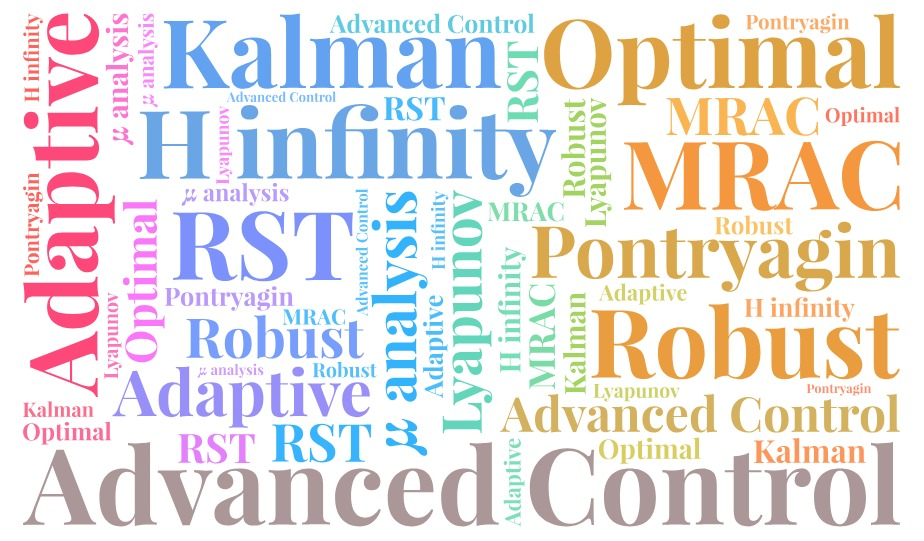
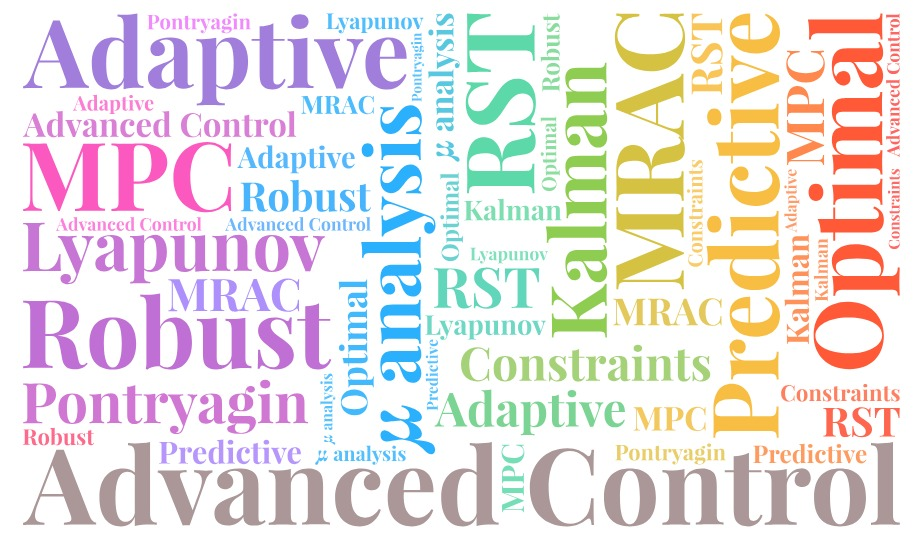
test 8

diff --git a/content/teaching/advanced-control/index.md b/content/teaching/advanced-control/index.md
@@ -18,19 +18,13 @@ On this page, you'll find some examples of the types of technical content that c
 
 ## Course Videos
 
-Chapter 1:
+Chapter 1 : Rappels et compléments sur les systèmes échantillonnés
 
 {{< youtube mkIDET-niwY >}}
 
-Chapter 2:
+Chapter 2 : Commande adaptative par modèle de référence
 
-{{< youtube rxmvVjVltNs >}}
-Chapter 3:
-
-{{< youtube uaqwPsOmMxM >}}
-Chapter 4:
-
-{{< youtube mkIDET-niwY >}}
+{{< youtube MDNLDyZDPto >}}
 
 
 
